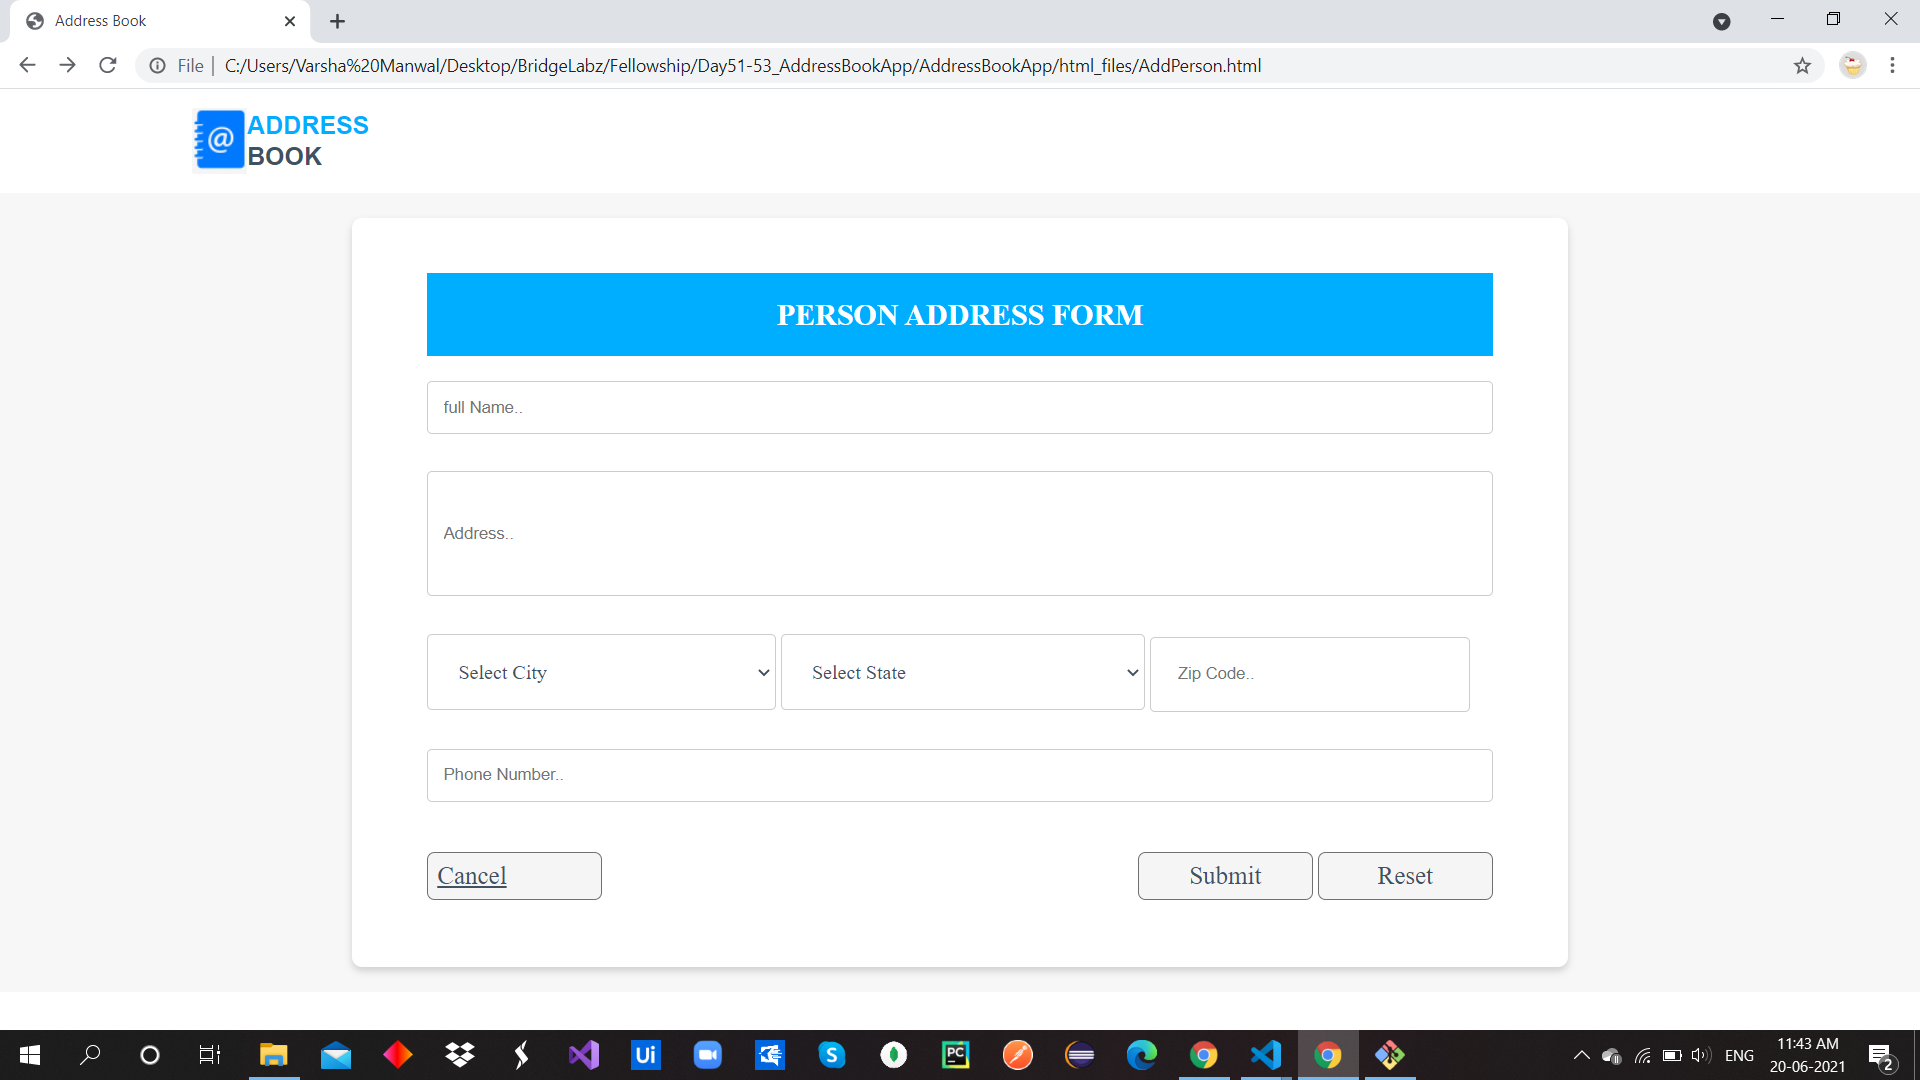
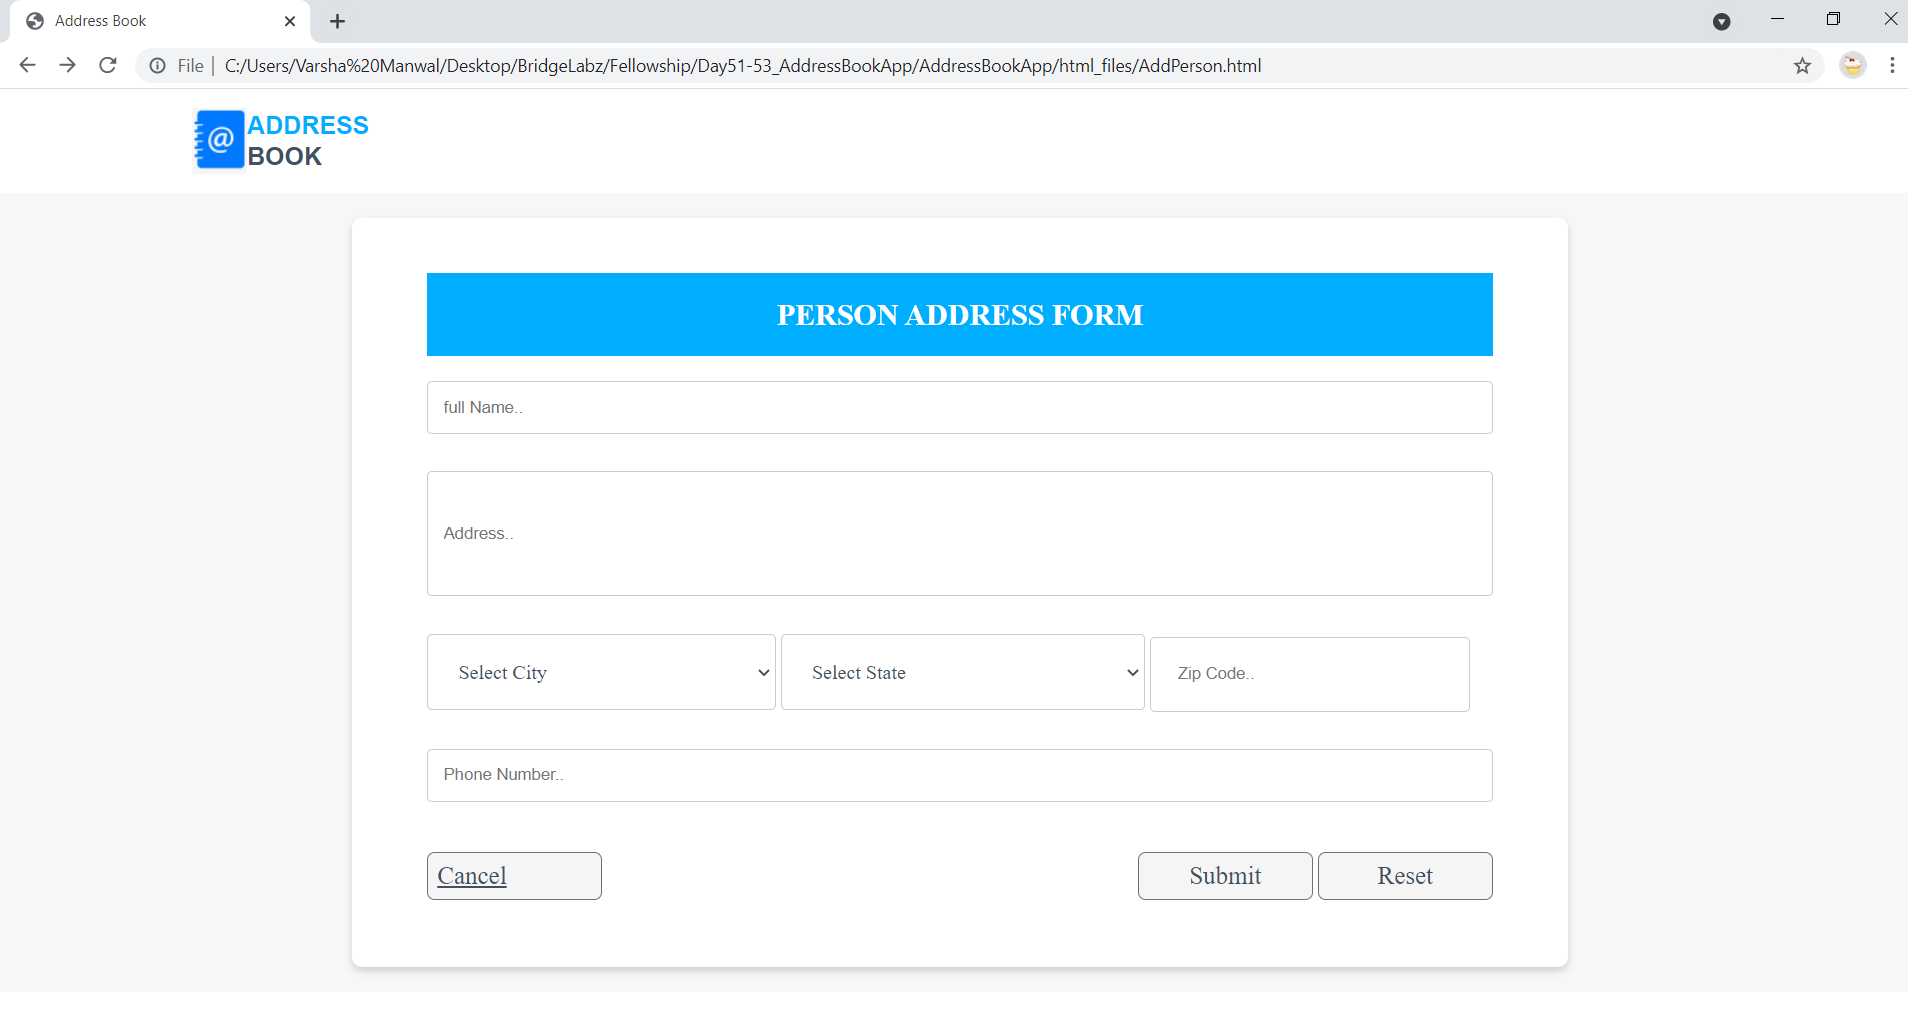
Added:To add Data in the Local Storage

diff --git a/AddressBookApp/html_files/AddPerson.html b/AddressBookApp/html_files/AddPerson.html
@@ -21,7 +21,7 @@
         </div>
     </header>
     <div class="form-content">
-        <form class="form " action="#" onadd="save();return false">
+        <form class="form " action="#" onsubmit="save();">
             <div class="form-head">
                 PERSON ADDRESS FORM
             </div>
@@ -70,26 +70,14 @@
                         <option value="Uttarakhand">Uttarakhand</option>
                         <option value="Uttar Pradesh">Uttar Pradesh</option>
                     </select>
-                    <input type="text" class="input-code" id="zipcode" name="zipcode" placeholder="Zip Code.." required>
+                    <input type="number" class="input-code" id="zipcode" name="zipcode" placeholder="Zip Code.." required>
                 </div>
             </div>
             <div class="row-content">
                 <label for="number" class="label text"></label>
                 <input type="text" class="input" id="number" name="number" placeholder="Phone Number..">
                 <error-output for="number" class="number-error"></error-output>
-            </div>
-            <script>
-                const number = document.querySelector('#number');
-                const numbererror = document.querySelector('.number-error');
-                number.addEventListener('input', function () {
-                    let numberpattern = RegExp('^[+][0-9]{2,}[1-9]{1}[0-9]{9}$');
-                    if (numberpattern.test(number.value))
-                        numbererror.textContent = ' ';
-                    else
-                        numbererror.textContent = 'Number is Incorrect!';
-                });
-                console.log(number);
-            </script>
+            </div> 
             <div class="button-parent">
                 <a href="./AddressBook.html" class="resetButton button cancelButton">Cancel</a>
                 <div class="submit-reset">

diff --git a/AddressBookApp/js_files/FormValidation.js b/AddressBookApp/js_files/FormValidation.js
@@ -57,3 +57,59 @@ function validatePhoneNumber() {
         }
     });
 }
+
+const save = () => {
+    try {
+        let addressBookData = createAddressBook();
+        createAndUpdateStorage(addressBookData);
+    } catch (e) {
+        console.log(e);
+        return;
+    }
+}
+
+const createAddressBook = () => {
+    let addressBookData = new AddressBookData();
+
+    try {
+        addressBookData.name = getInputValueId('#name');
+    } catch (e) {
+        console.log(e)
+        setTextValue('.text-error', e);
+        throw e;
+    }
+    addressBookData.address = getInputValueId('#address');
+    addressBookData.city    = getInputValueId('#city');
+    addressBookData.state   = getInputValueId('#state');
+    addressBookData.zipcode = getInputValueId('#zipcode');
+    addressBookData.phonenumber = getInputValueId('#number');
+    console.log(addressBookData);
+
+    return addressBookData;
+}
+
+const getInputValueId = (id) => {
+    let value = document.querySelector(id).value;
+    return value;
+}
+
+
+const setTextValue = (id, message) => {
+    const textError = document.querySelector(id);
+    textError.textContent = message;
+}
+
+const createAndUpdateStorage = (data) => {
+    let dataList = JSON.parse(localStorage.getItem("AddressBookList"));
+
+    if(dataList != undefined) {
+        dataList.push(data);
+    }
+    else {
+        dataList = [data];
+    }
+    console.log(dataList);
+
+    localStorage.setItem("AddressBookList", JSON.stringify(dataList));
+    alert("data stored with name: "+data.name);
+}

diff --git a/AddressBookApp/js_files/AddressBook.js b/AddressBookApp/js_files/AddressBook.js
@@ -1,5 +1,12 @@
 class AddressBookData{
 
+    get id() {
+        return this._id;
+    }
+    set id(id) {
+        this._id = id;
+    }
+
     get name() {
         return this._name;
     }
@@ -58,7 +65,7 @@ class AddressBookData{
     }
     
     toString() {
-        return "name="+this.name+" address="+this.address+" city="+this.city+" state="+this.state+
+        return "id=" + this.id +"name="+this.name+" address="+this.address+" city="+this.city+" state="+this.state+
         " zipcode="+this.zipcode+" phonenumber="+this.phonenumber;
     }
 

diff --git a/AddressBookApp/css_files/AddPerson.css b/AddressBookApp/css_files/AddPerson.css
@@ -117,7 +117,7 @@ select{
     display:inline-block;
     box-sizing:border-box;
     opacity: 1;
-    padding-right: 160px;
+    padding-right: 162px;
 }
 
 .input-code {
@@ -126,7 +126,7 @@ select{
     border: 1px solid #ccc ;
     border-radius: 4px;
     resize: vertical;
-    padding-right:160px;
+    padding-right:162px;
 }
 
 error-output {
@@ -203,9 +203,6 @@ error-output {
         width: 85%;
         padding: 44px 20px;
     }    
-    .profile-label{
-        margin-right: 0px;
-    }
 }
 
 a.button:hover{
